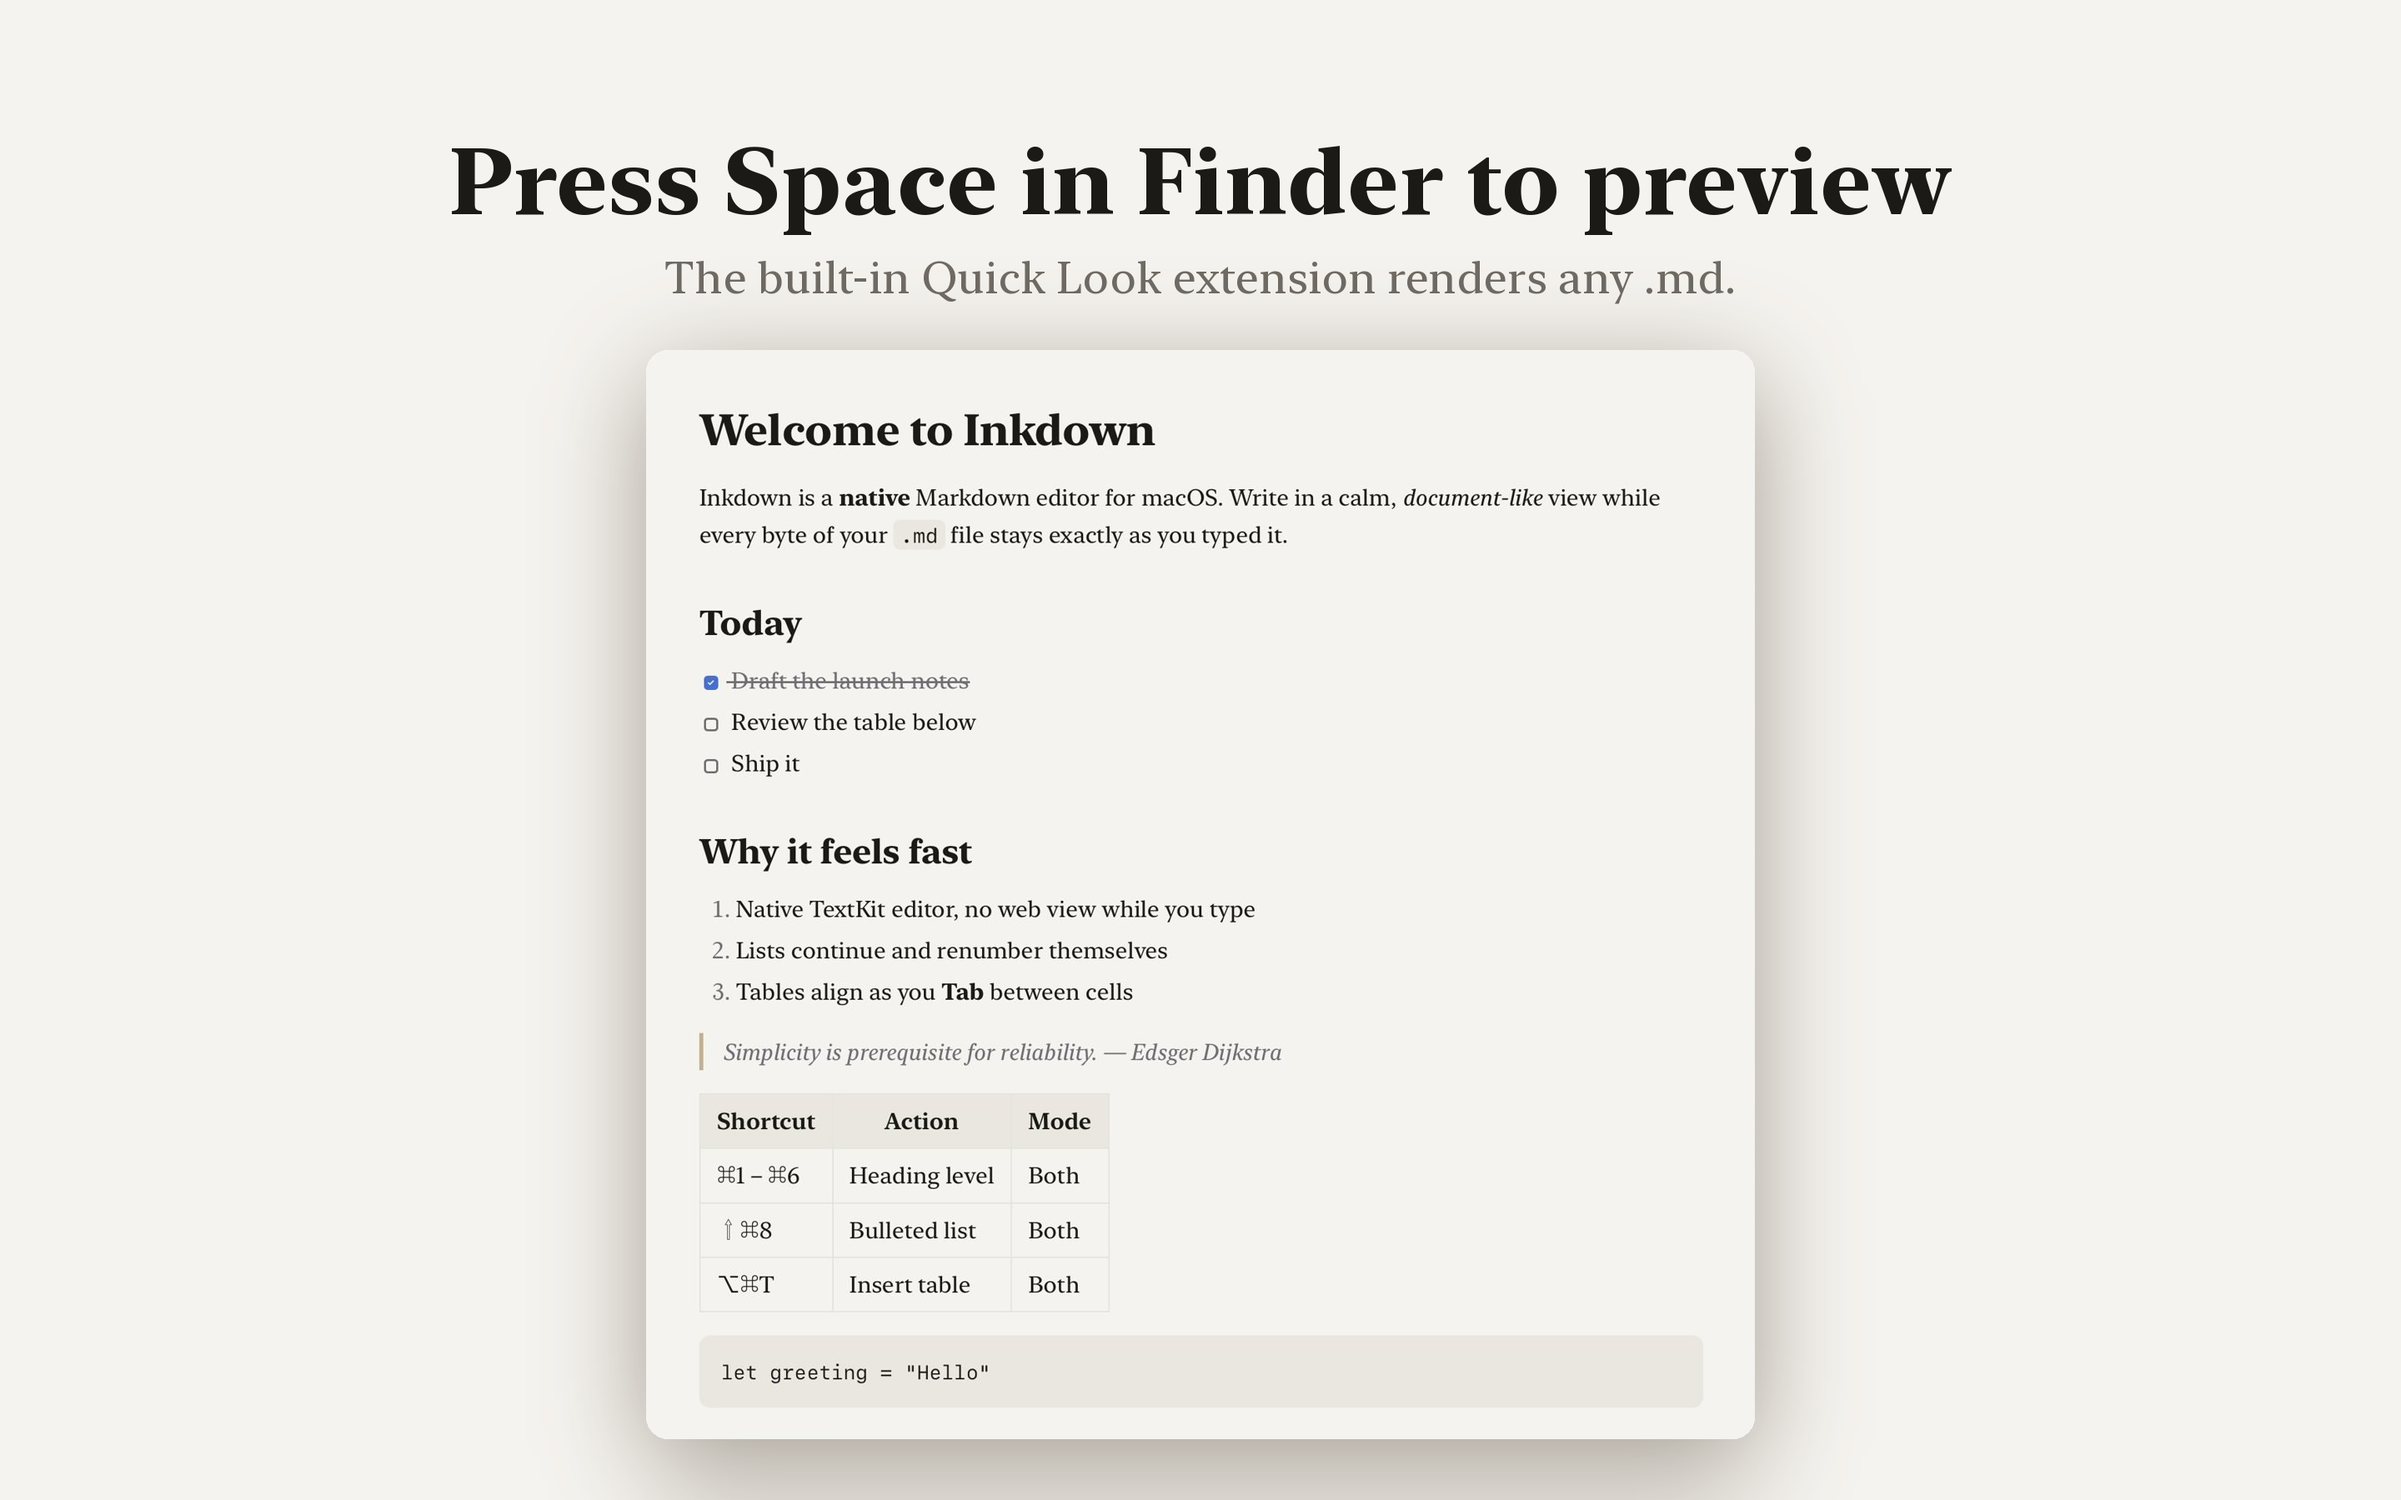
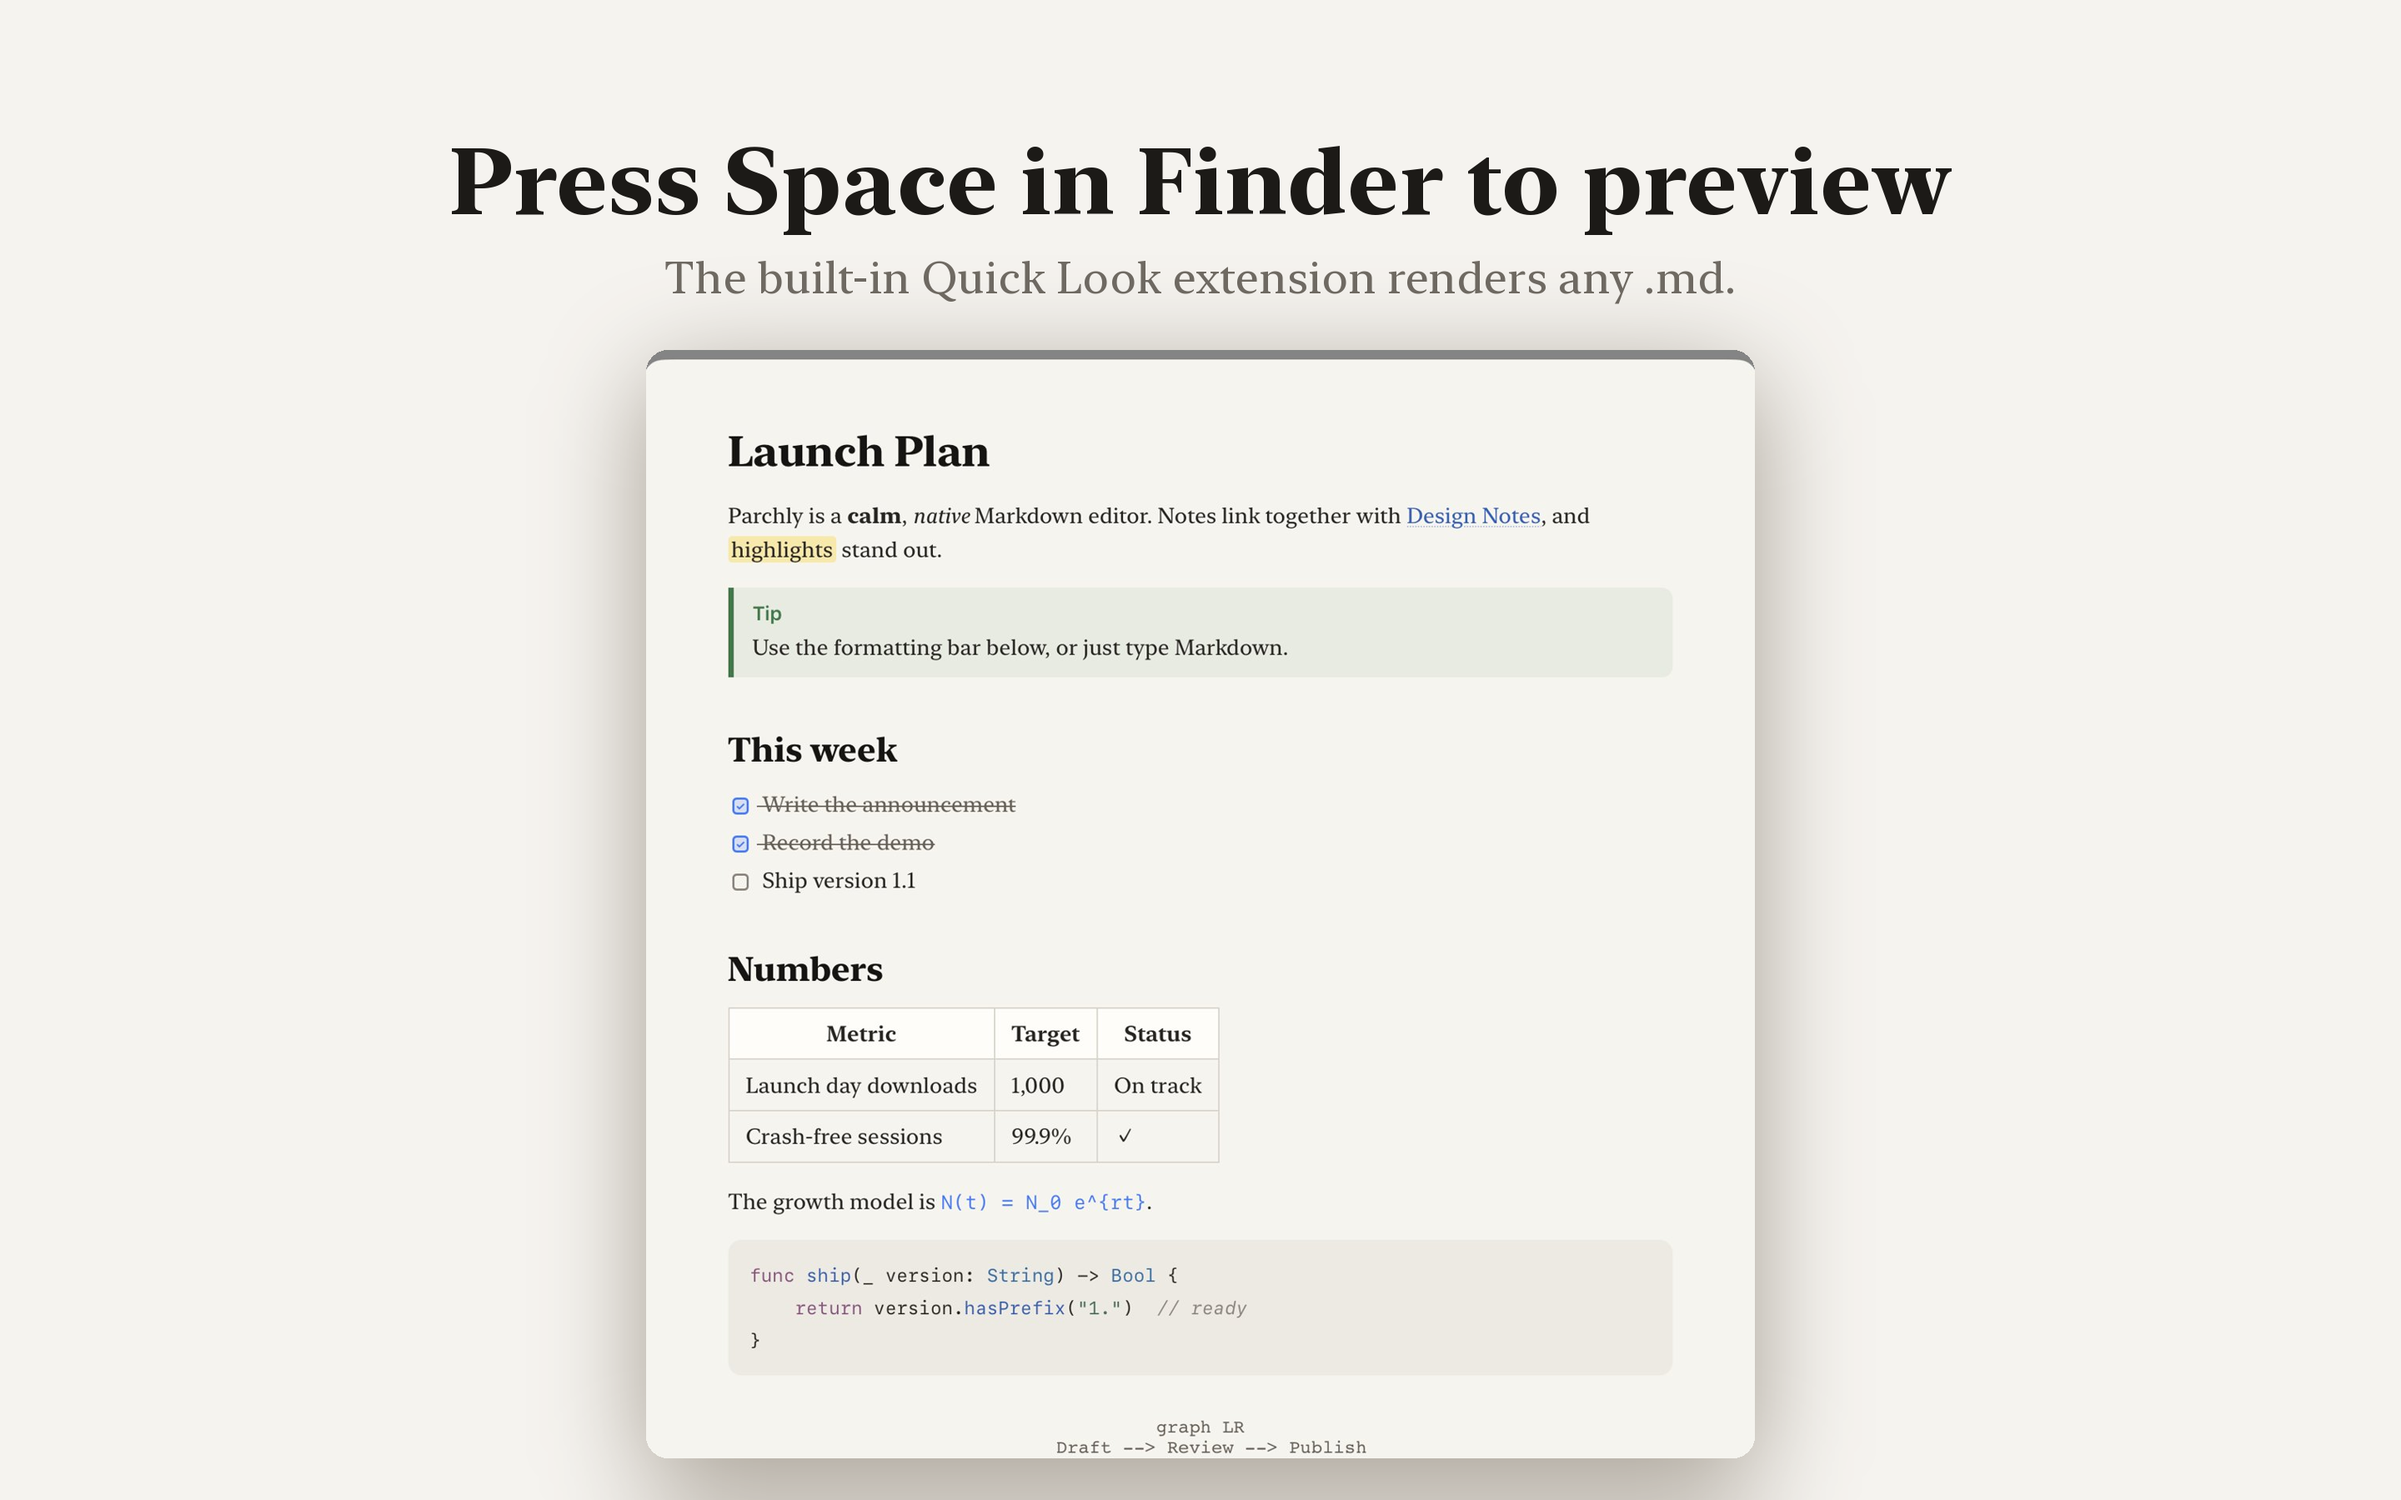
Refresh Quick Look screenshot; 1.1.1 notes

diff --git a/release-notes/v1.1.1.md b/release-notes/v1.1.1.md
@@ -1,0 +1,12 @@
+**Parchly 1.1.1** is a small polish release, and the first one delivered by Parchly's new automatic updater.
+
+## Install / update
+If you have Parchly 1.1, it updates itself. You can also choose **Parchly › Check for Updates…**. New here? Run:
+
+```sh
+curl -fsSL https://tapariapurv.github.io/parchly/install.sh | bash
+```
+
+## Changes
+- 🔄 Verified end-to-end automatic updates (1.1.0 → 1.1.1) through the signed appcast.
+- 🖼 Refreshed the Quick Look and App Store screenshots for the new name and design.
